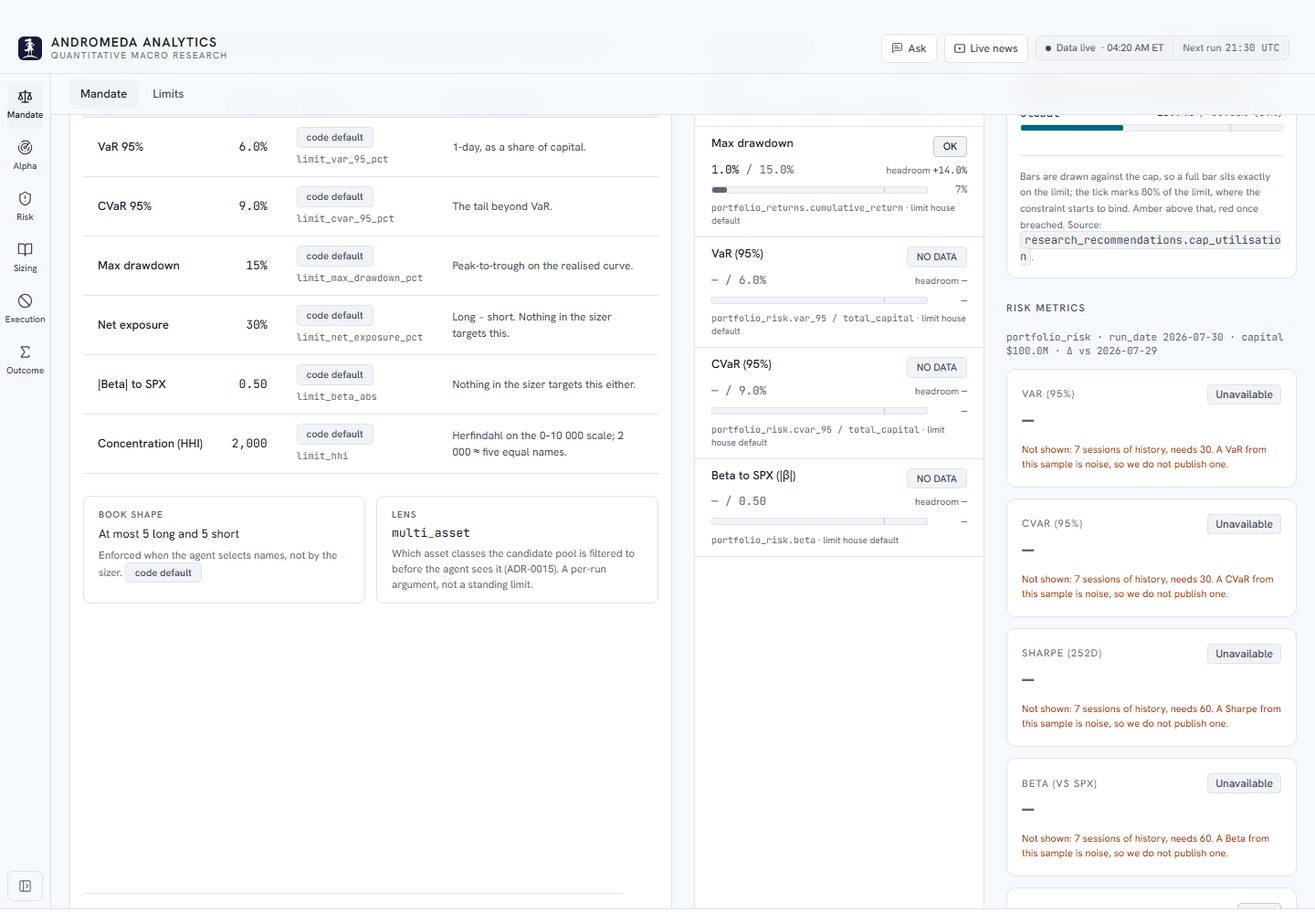
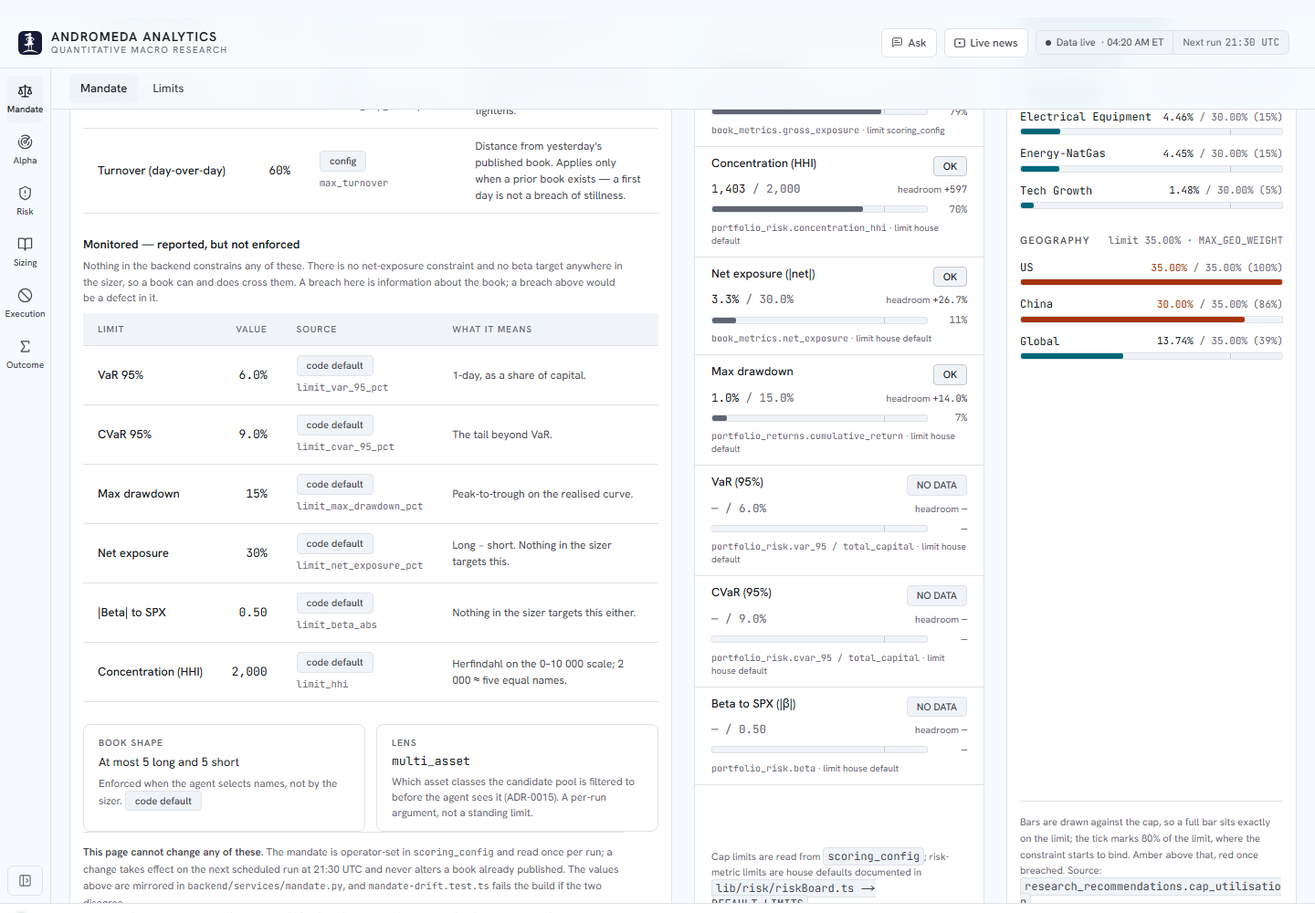
refactor(ui): the risk-metric tiles move from /mandate to /attribution
Four of the five were already on the mandate page, stated better. VaR, CVaR,
beta and HHI are the same portfolio_risk columns the limit board reports two
cards away AGAINST THEIR LIMIT AND HEADROOM — and three of them were stating
the same absence twice, in two different wordings. Only Sharpe was unique, and
it has no mandate limit at all: it is a realised risk-adjusted return.

They were never chosen for that page. Before the phase split /risk was one page
and RiskMetricsGrid sat inside <section id="limits">; ADR-0170 mapped limits →
mandate and the grid travelled with it.

/risk was rejected as a destination on its own lede — "every figure here is
EX-ANTE" — since all five are computed off the realised return series. They
land at the top of /attribution's realised section, directly beneath the answer
card that explains why they are withheld.

Follow-ons: RiskMetricsGrid drops the xl:grid-cols-1 step added for the 318px
column that no longer exists, and CapUtilisation takes open:h-full back to hold
the mandate row's bottom edge alone.

Measured at 1440: /mandate's three cards 474 → 2062px, one top and one bottom
edge, page 2483 → 2166px. /attribution's strip is five across at 259px. 975
frontend tests green, tsc clean.

ADR-0182.

diff --git a/frontend/components/risk/RiskBody.tsx b/frontend/components/risk/RiskBody.tsx
@@ -124,7 +124,8 @@ const PHASE_COPY: Record<RiskPhase, { title: string; lede: string }> = {
   attribution: {
     title: "Attribution & Feedback",
     lede:
-      "What the book actually did — realised drawdown and the return path, " +
+      "What the book actually did — the five headline risk statistics, the " +
+      "forward record of published picks, realised drawdown and the return path, " +
       "against the ex-ante figures the phases above produced. This is the only " +
       "surface here that is backward-looking.",
   },
@@ -888,35 +889,19 @@ function RiskPageInner({ phase }: { phase: RiskPhase }) {
           />
         </section>
 
-        {/* The last column is a STACK, not a card: cap headroom, then the five
-            risk-metric tiles one below another (owner's direction). Both are
-            readings of the same book against the same mandate, and at 316px the
-            tiles' own `md:grid-cols-5` would have given each one 52px, so the
-            column is the only place they can go five-deep instead of five-across.
+        {/* Cap headroom, moved from the risk page (ADR-0172). "Am I inside my limits"
+            is the MANDATE's question, and the board beside it states the limits this
+            measures against — separating a constraint from the reading of that
+            constraint is what made the caps unreadable before MandatePanel existed.
 
-            This column is also what the other two align to — it is the tallest of
-            the three, so `h-full` on the mandate and the board stretches them to
-            its bottom edge. The caps card deliberately carries no `h-full`: it
-            shares this column rather than owning it. */}
-        <div className="flex flex-col gap-6">
-          {/* Cap headroom, moved from the risk page (ADR-0172). "Am I inside my limits"
-              is the MANDATE's question, and the board beside it states the limits this
-              measures against — separating a constraint from the reading of that
-              constraint is what made the caps unreadable before MandatePanel existed. */}
+            It briefly shared this column with the five risk-metric tiles, which
+            have since moved to /attribution — four of the five were the same
+            portfolio_risk figures the board already reports AGAINST THEIR LIMIT,
+            two cards apart, and three of those were stating the same ABSENCE
+            twice in two wordings (ADR-0182). Alone in the column again, the card
+            takes `open:h-full` back so the row keeps one bottom edge. */}
+        <div>
           <CapUtilisation state={capState} />
-
-          {/* 2 — Risk metrics (always rendered) + prior-run deltas. */}
-          <section aria-label="Headline risk metrics">
-            <RiskMetricsGrid
-              loading={data.loading}
-              risk={data.risk}
-              failure={data.riskFailure}
-              orderingNote={data.riskOrderingNote}
-              deltas={riskDeltas}
-              prevRunDate={prevRunDate}
-              sessions={data.returns.length}
-            />
-          </section>
         </div>
         </>
         )}
@@ -956,9 +941,10 @@ function RiskPageInner({ phase }: { phase: RiskPhase }) {
       )}
 
       {/* VaR by method — moved off /mandate (ADR-0172). The mandate LISTS a VaR
-          limit and the metric grid beside it reports the one published figure; the
+          limit and its board reports the one published figure against it; the
           four-way comparison is a risk analysis, not a limits check, and belongs on
-          the page whose question is what could go wrong. Its own section, because
+          the page whose question is what could go wrong. (The metric grid that used
+          to report that figure beside the board is on /attribution now — ADR-0182.) Its own section, because
           five instruments in `stress` would bury the scenario matrix again — which
           is the defect this whole reorganisation exists to fix. */}
       {/* No `id` on the wrapper below: `VarMethods` already renders
@@ -1068,6 +1054,32 @@ function RiskPageInner({ phase }: { phase: RiskPhase }) {
           against the other was previously a scroll. */}
       {shows("realised") && (
       <section id="realised" aria-label="Realised performance">
+      {/* The five headline risk statistics, moved off /mandate (ADR-0182). Four of
+          them — VaR, CVaR, beta, HHI — are the same portfolio_risk figures the
+          limit board reports there AGAINST THEIR LIMIT, which on a page asking
+          "is the book inside its mandate" is the strictly better form; three were
+          stating the same ABSENCE twice, two cards apart, in two wordings. The
+          fifth, Sharpe, has no mandate limit at all.
+
+          They land HERE and not on /risk because every one of them is computed
+          from the realised return series, and /risk's own lede promises that
+          every figure on it is ex-ante — a pure function of the recommended
+          weights and a covariance estimate. Putting these there would have made
+          that sentence false. The Δ-vs-yesterday chips are the same claim this
+          phase is for.
+
+          First in the section, because they are the headline: a compact
+          five-across strip above the record and the curves that explain it. */}
+      <RiskMetricsGrid
+        loading={data.loading}
+        risk={data.risk}
+        failure={data.riskFailure}
+        orderingNote={data.riskOrderingNote}
+        deltas={riskDeltas}
+        prevRunDate={prevRunDate}
+        sessions={data.returns.length}
+      />
+
       {/* The forward record, moved here from /method/evidence (ADR-0172). Phase 6
           IS "was the thesis right", and this is the only instrument that answers it
           about books we actually published. Fed the rows this page already read, so

diff --git a/frontend/components/risk/CapUtilisation.tsx b/frontend/components/risk/CapUtilisation.tsx
@@ -210,12 +210,24 @@ export function CapUtilisation({
     // new one being added. The disclosure itself is kept: a reader who wants the
     // limit board beside it without 19 bars can still close it.
     //
-    // It carries NO `h-full`, unlike the other two cards in that row (ADR-0181):
-    // it does not own its column, it shares it with the five risk-metric tiles
-    // stacked beneath it. The COLUMN is what aligns to the row's height; this
-    // card is content-height at the top of it, and a stretched card here would
-    // push the tiles out of the row entirely.
-    <details open className="card mb-6 group" aria-labelledby="risk-caps-heading">
+    // `open:h-full`, not `h-full`: the mandate row aligns its three cards top AND
+    // bottom (ADR-0181), and this card owns its column again now the risk-metric
+    // tiles have left it (ADR-0182). Gated on `[open]` because a COLLAPSED card
+    // stretched to the row height is a 1600px empty bordered box — the disclosure
+    // would still work and would still look broken.
+    //
+    // The `[&::details-content]` half is not decoration. Chrome wraps a
+    // <details>'s non-summary content in a UA `::details-content` box, so
+    // `flex-col` on the element makes THAT box the flex item and the card body
+    // inside it is not one — measured: the body stopped at 1068px inside a 1546px
+    // slot, and the closing note floated with 400px of blank beneath it. Both
+    // paths are kept: Firefox and Safari have no such box and flex the children
+    // directly, where the rule is simply ignored.
+    <details
+      open
+      className="card mb-6 group open:h-full open:flex open:flex-col open:[&::details-content]:h-full open:[&::details-content]:flex open:[&::details-content]:flex-col"
+      aria-labelledby="risk-caps-heading"
+    >
       <summary className="card-header cursor-pointer select-none list-none [&::-webkit-details-marker]:hidden">
         <h2 id="risk-caps-heading" className="card-title m-0">
           Cap utilisation
@@ -239,7 +251,7 @@ export function CapUtilisation({
           <SectionGap copy={gap} tone={state.status === "query_error" ? "error" : "empty"} />
         ) : null
       ) : (
-        <div className="card-body">
+        <div className="card-body flex-1 flex flex-col">
           {breaches.length > 0 && (
             <div
               className="mb-5 pl-4 border-l-2 py-1"
@@ -259,14 +271,20 @@ export function CapUtilisation({
             </div>
           )}
 
-          {GROUPS.map((group) => (
-            <CapGroupBlock
-              key={group.id}
-              group={group}
-              rows={data[group.id]}
-              limit={data.limits?.[group.id]}
-            />
-          ))}
+          {/* flex-1 on the GROUPS, not `mt-auto` on the note below them: this is
+              what absorbs the slack when the card is stretched to the mandate
+              row's height, and it leaves the note's own `mt-4` intact for every
+              layout where there is no slack to absorb. */}
+          <div className="flex-1">
+            {GROUPS.map((group) => (
+              <CapGroupBlock
+                key={group.id}
+                group={group}
+                rows={data[group.id]}
+                limit={data.limits?.[group.id]}
+              />
+            ))}
+          </div>
 
           <p className="m-0 mt-4 pt-3.5 border-t border-border text-[11px] text-text-tertiary leading-[1.6] max-w-[90ch]">
             Bars are drawn against the cap, so a full bar sits exactly on the limit;

diff --git a/frontend/components/risk/RiskMetricsGrid.tsx b/frontend/components/risk/RiskMetricsGrid.tsx
@@ -350,18 +350,15 @@ export function RiskMetricsGrid({
     };
   };
 
-  // Two up on a phone, five ACROSS from `md`, and one per line again at `xl`.
-  // The last step is the layout, not a preference: from `xl` these five sit under
-  // the cap-utilisation card in the mandate row's last column (ADR-0181), 318px
-  // wide, where `grid-cols-5` would give each tile 52px. Same DOM at every width,
-  // so no figure on this page is rendered twice.
-  //
-  // No `mb-6` on the section either: its spacing is the parent stack's `gap-6` at
-  // every width, and a margin as well would double it.
-  const gridCls = "grid grid-cols-2 md:grid-cols-5 xl:grid-cols-1 gap-3";
+  // Two up on a phone, five across from `md`. The `xl:grid-cols-1` step that
+  // briefly lived here was for the 318px column these tiles occupied on /mandate;
+  // they moved to /attribution (ADR-0182), which is a full-width surface, so the
+  // narrow case no longer exists and the class that served it is gone rather than
+  // kept "in case".
+  const gridCls = "grid grid-cols-2 md:grid-cols-5 gap-3";
 
   return (
-    <section aria-labelledby="risk-metrics-heading">
+    <section className="mb-6" aria-labelledby="risk-metrics-heading">
       <div className="flex items-baseline justify-between gap-4 mb-3 flex-wrap">
         <h2 id="risk-metrics-heading" className="card-title m-0">
           Risk metrics

diff --git a/docs/adrs/README.md b/docs/adrs/README.md
@@ -199,6 +199,8 @@ One ADR per file. Immutable once accepted — superseded ADRs are marked `supers
 
 | [0181](0181-three-columns-one-baseline.md) | Three columns, one baseline -- two more directions on the `/mandate` row (ADR-0179/0180), taken together because the second changes what the first has to mean. (1) "The mandate", "Risk-limit board" and "Cap utilisation" should align top AND bottom -- they measured 1604/1531/1131px from a shared top edge, three different bottom edges on one row. (2) The five risk-metric tiles go UNDER the cap-utilisation card, one below another -- they had been left full width beneath the row on the reasoning that `md:grid-cols-5` across four 316px columns would wrap to one tile per line, which stacked deliberately in one column is the layout rather than an objection to it. The second settles what "bottom aligned" can mean: if the last column holds a card AND five tiles, the caps CARD is not what aligns, the COLUMN is -- a card stretched to the row height there would push the tiles out of the row entirely. Decision: `items-start` comes off the row (the one paired grid on this page that does not use it) so cells stretch to the tallest; **each card carries its own `h-full`**, because a stretched WRAPPER with a content-height card inside aligns nothing -- which is exactly what the first attempt produced; `MandatePanel` and `RiskLimitBoard` are `h-full flex flex-col` with their closing note at `mt-auto`, so slack opens ABOVE the footer and each card's closing line sits on the row's bottom edge; `CapUtilisation` carries NO `h-full` (it shares its column rather than owning it -- content-height at the top, five tiles beneath, the column's height is what meets the other two); and `RiskMetricsGrid` becomes `grid-cols-2 md:grid-cols-5 xl:grid-cols-1` -- two up on a phone, five across from `md`, one per line from `xl` where the mandate row exists, same DOM at every width so no figure is rendered twice, with its `mb-6` dropped since spacing is now the parent stack's `gap-6`. Measured at 1440 on the 2026-07-30 run: mandate and board both **474 -> 2379px**, last column 474 -> 1604 (caps) -> 2379 (fifth tile) -- one baseline, three columns; tiles 318px stacked, 182px five-across at 1024, 173px two-across at 390; no overflow on any card or the document, no console errors; 975 frontend tests green, `tsc` clean. Costs: the row got TALLER (1905 vs 1604) because the tallest column now holds two things, though the page is still 2483px against the 3026 ADR-0179 inherited; two cards now carry real slack inside them (~300px in the mandate, ~370px in the board) which pinned footers make read as a deliberate bottom rule rather than a ragged edge, but it is the price of one baseline; `h-full` is load-bearing in three components for a layout decision made in a fourth, commented but not enforced, so a future card added to this row without it will silently not align; and a collapsed caps card is harmless only by luck of ORDERING -- it sits above the tiles, so closing it shortens the column rather than leaving a hole. Recorded because it cost an hour: **Chrome wraps a `<details>`'s non-summary content in a UA `::details-content` box**, so `flex-col` on the element makes THAT box the flex item and a `flex-1` child inside it does not grow -- measured, the card body stopped at 1068px inside a 1546px slot, while Firefox and Safari flex the children directly. Not needed in the end (the caps card no longer stretches), but the next person reaching for `flex` on a `<details>` should not have to rediscover it. Rejected: stretching the caps card and putting the tiles below the row ("under it" meant in its column; below the row is where they already were); aligning only the two full-height cards and letting the last column ragged-end (it IS the tallest column -- the other two align to it); `items-stretch` with no per-card `h-full` (measured as the first attempt: the cells stretched, the cards did not, nothing changed visually) | accepted | 2026-07-30 |
 
+| [0182](0182-four-of-five-were-already-on-the-page.md) | Four of the five were already on the page -- the owner asked why the risk-metric tiles were on `/mandate` at all. They were never chosen for it: before the phase split `/risk` was one page and `RiskMetricsGrid` sat inside `<section id="limits">`, ADR-0170 cut that page by reader question and mapped `limits` -> mandate, so the grid travelled with the section it happened to live in; ADR-0181 moving it into the row's last column made the question visible rather than creating it. Read off the LIVE page at 1440 on the 2026-07-30 run: VaR `NO DATA - / 6.0%` on the board vs `Unavailable -` on the tile; CVaR `NO DATA - / 9.0%` vs `Unavailable -`; Beta `NO DATA - / 0.50` vs `Unavailable -`; HHI `1,403 / 2,000, headroom +597, OK` vs `1403 up +5, Exact`; Sharpe -- no mandate limit exists -- vs `Unavailable`. Four of five are the same `portfolio_risk` columns the board already reports AGAINST THEIR LIMIT AND HEADROOM, which on a page asking "is the book inside its mandate" is strictly the more useful form, and three of those four were stating the same ABSENCE twice, two cards apart, in two different wordings; the fifth, Sharpe, is a realised risk-adjusted return with no mandate limit at all -- phase 6's question, not phase 1's. Decision: the grid moves to `/attribution`, at the top of the `realised` section. `/risk` was rejected as a destination ON ITS OWN COPY -- its lede promises "every figure here is EX-ANTE, a pure function of the recommended weights and a 252-day covariance estimate", and all five are computed off the realised return series, so landing them there would have made that sentence false. `/attribution` is the backward-looking surface, the delta-vs-yesterday chips are exactly its claim, and the phase already opens with an answer card ("7 sessions -- 11 statistics are still withheld for want of history; var_95 unlocks at 30") that is about these tiles specifically, so they now sit directly beneath the card explaining their own absence. NO change to `RISK_SECTION_PHASE`: the grid moved INTO an existing section rather than becoming one, so the nav-section parity the split is tested on is untouched; the attribution lede gains a clause naming what the phase opens with. Two follow-ons the move forced: `RiskMetricsGrid` DROPS the `xl:grid-cols-1` step ADR-0181 added (it existed for a 318px column that no longer exists, and a class kept "in case" is a class nobody can delete later) with `mb-6` returning now that no parent stack owns its spacing; and `CapUtilisation` takes `open:h-full` BACK, owning the last column again so it is what meets the other two cards' bottom edge -- including the `[&::details-content]` rule ADR-0181 recorded but did not need, which is now what pins its closing note to the baseline. Measured at 1440: `/mandate`'s three cards run **474 -> 2062px**, one top and one bottom edge, page 2483 -> **2166px**; on `/attribution` the strip renders five across at 259px per tile, 175px tall, above the track record; collapsing the caps card still returns it to 58px; no overflow, no console errors, 975 frontend tests green, `tsc` clean. Costs: `/attribution` inherits duplication it does not have yet (`beta` also appears in `BenchmarkComparison` further down that page, VaR/CVaR in `VarMethods` on `/risk`) -- this removes one duplication and does not audit the rest; the provenance rendering MOVED rather than spread, so these tiles remain the only place `numeric_derivations` (method id, freshness, uncertainty band) reaches a reader for these five figures while the limit board reports the same numbers with only a source line, an asymmetry left standing; `/mandate` lost its only Sharpe, intended (a mandate is not a performance statement) but a figure a reader of that page could previously see; and the last column is a single disclosure again, stretched to 1588px against ~1131px of content. Rejected: leaving it (the duplication is on one screen and includes the same absence stated twice); retiring the grid entirely and rehoming only Sharpe (cheapest, and it would have deleted the only surface rendering derivation provenance for these five); moving it to `/risk` (contradicted by that page's own lede, which is a promise about every figure on it) | accepted | 2026-07-30 |
+
 ## When to write an ADR
 
 - Any architectural choice you'd struggle to explain six months from now

diff --git a/PROGRESS.md b/PROGRESS.md
@@ -34,6 +34,7 @@ docs/
 
 | Date | Entry |
 |---|---|
+| 2026-07-30 | **The risk-metric tiles left /mandate for /attribution -- four of the five were already on the mandate page, stated better.** [ADR-0182](docs/adrs/0182-four-of-five-were-already-on-the-page.md). The owner asked why they were there; the answer is that nobody put them there -- `RiskMetricsGrid` sat inside `<section id="limits">` before the phase split, and `limits` went to mandate. Read off the live page: VaR, CVaR, beta and HHI are the same `portfolio_risk` columns the limit board reports AGAINST THEIR LIMIT two cards away, and three of them were stating the same absence twice in two wordings; only Sharpe was unique, and it has no mandate limit. `/risk` was rejected on its own lede ("every figure here is EX-ANTE") since all five are computed off the realised return series, so they land at the top of `/attribution`'s realised section -- directly under the answer card that explains why they are withheld. No `RISK_SECTION_PHASE` change (moved into an existing section). Follow-ons: the `xl:grid-cols-1` step added for the 318px column is deleted rather than kept, and `CapUtilisation` takes `open:h-full` back to hold the mandate row's bottom edge alone. Measured at 1440: /mandate's three cards 474->2062px, page 2483->2166px; 975 tests green. |
 | 2026-07-30 | **/mandate's three columns now share one bottom edge, and the five risk-metric tiles moved into the last one, stacked under cap utilisation.** [ADR-0181](docs/adrs/0181-three-columns-one-baseline.md). Owner's direction, two parts, where the second settles what the first can mean: with a card AND five tiles in the last column, the COLUMN aligns, not the caps card. `items-start` comes off the row; each card carries its own `h-full` (a stretched wrapper with a content-height card inside aligns nothing -- the first attempt's actual result); `MandatePanel` and `RiskLimitBoard` pin their closing note at `mt-auto` so the slack opens above the footer; `CapUtilisation` deliberately has no `h-full` since it shares its column; `RiskMetricsGrid` is now `grid-cols-2 md:grid-cols-5 xl:grid-cols-1`, one DOM at every width. Measured at 1440: mandate and board both 474->2379px, last column 474->1604 (caps) ->2379 (fifth tile); 975 tests green. Also recorded there: Chrome wraps `<details>` content in a UA `::details-content` box, so `flex-col` on the element does not make an inner child a flex item. |
 | 2026-07-30 | **Cap utilisation opens by default, and the limit board got 32% shorter by moving its prose to the card that already carries it.** [ADR-0180](docs/adrs/0180-the-note-is-beside-the-board-the-source-is-not.md). Two same-day follow-ups to ADR-0179's mandate row. `CapUtilisation` is now `<details open>` -- as one of four cards in one row it was spending a quarter column on a 58px summary bar. The board's height was measured, not guessed: ~178px per row, of which ~55px was pure padding/margin and 33-66px was the prose `note` -- content `MandatePanel` renders 24px to the left for every one of these limits. So `LimitDef` gains `source` (the `table.column` the VALUE is read from, split out of the prose and rendered under every row beside where the LIMIT came from), the prose moves to the row's `title` with the intro linking to `#mandate`, `value / limit` and the headroom go on one line, and the spacing tightened. Measured at 1440: board 2250->1531px, caps 58->1131px open, page 3026->2381px -- 645px shorter despite a card opening. Known cost: the board no longer explains itself in isolation, and `title` is hover-only, so the traceability path is the source line that renders, not the tooltip. |
 | 2026-07-30 | **`/mandate` opens as one row -- the mandate at half width, the limit board and cap headroom at a quarter each -- which cost the limit board its table.** [ADR-0179](docs/adrs/0179-a-quarter-column-cannot-hold-an-820px-table.md). Owner's layout direction. A quarter of the 1336px canvas is 316px (~280 inside a card), and `RiskLimitBoard` was a six-column table pinned at `min-w-[820px]` -- a 3x horizontal scroller in that window -- while `CapUtilisation`'s three-column bar row overflowed ~70px into a card that clips. `RiskBody` now renders mandate+limits as one `xl:grid-cols-4` row (`MandatePanel` `col-span-2`, board and caps one each) with `RiskMetricsGrid` full width beneath it; the board is a stacked list carrying every column the table had, with Value/Limit/Headroom as a labelled three-up `<dl>` because a list has no `<thead>` and a bare figure under no heading is a naked number; the cap bars drop back to their two-column form at `xl`. One rendering at every width, not two markups -- duplicating the card's figures in the DOM is how they come to disagree. Below `xl` the page is unchanged. Verified live at 1440: 660/318/318px on one row, no overflow on any card or the document, no console errors; fallbacks checked at 1280/1024/390; `tsc` clean and the risk/mandate suites green. Known cost: `#mandate` and `#limits` now start at the same y, so `SectionNav`'s "Limits" tab rarely wins the active highlight (the anchors still work). |

diff --git a/docs/adrs/0182-four-of-five-were-already-on-the-page.md b/docs/adrs/0182-four-of-five-were-already-on-the-page.md
@@ -1,0 +1,100 @@
+---
+status: accepted
+date: 2026-07-30
+deciders: platform owner
+---
+
+# ADR-0182 — Four of the five were already on the page
+
+## Context
+
+The owner asked why the risk-metric tiles were on `/mandate` at all.
+
+They were never chosen for it. Before the phase split, `/risk` was one page and
+`RiskMetricsGrid` sat inside `<section id="limits">`. ADR-0170 cut that page by
+reader question and mapped `limits` → mandate, so the grid travelled with the
+section it happened to live in. ADR-0181 then moved it into the row's last
+column, which made the question visible rather than creating it.
+
+Read off the live page at 1440 on the 2026-07-30 run:
+
+| Figure | Risk-limit board, same page | Metric tile, same page |
+|---|---|---|
+| VaR (95%) | `NO DATA — / 6.0%` | `Unavailable —` |
+| CVaR (95%) | `NO DATA — / 9.0%` | `Unavailable —` |
+| Beta to SPX | `NO DATA — / 0.50` | `Unavailable —` |
+| Concentration (HHI) | `1,403 / 2,000, headroom +597, OK` | `1403 ▲ +5, Exact` |
+| Sharpe (252d) | — no mandate limit exists | `Unavailable` |
+
+Four of the five are the same `portfolio_risk` columns the board already reports
+**against their limit and headroom** — which on a page whose question is "is the
+book inside its mandate" is strictly the more useful form. Three of those four
+were stating the same *absence* twice, two cards apart, in two different
+wordings. The fifth, Sharpe, is a realised risk-adjusted return with no mandate
+limit at all: phase 6's question, not phase 1's.
+
+## Decision
+
+**The grid moves to `/attribution`, at the top of the `realised` section.**
+
+`/risk` was rejected as a destination on its own copy: its lede promises that
+*"every figure here is EX-ANTE — a pure function of the recommended weights and a
+252-day covariance estimate"*, and every one of these five is computed off the
+realised return series. Landing them there would have made that sentence false.
+
+`/attribution` is the backward-looking surface, the Δ-vs-yesterday chips are
+exactly its claim, and the phase already opens with an answer card — *"7 sessions
+— 11 statistics are still withheld for want of history; var_95 unlocks at 30"* —
+that is about these tiles specifically. They now sit directly beneath the card
+that explains their own absence.
+
+No change to `RISK_SECTION_PHASE`: the grid moved *into an existing section*
+rather than becoming one, so the nav ⟷ section parity the split is tested on is
+untouched. The attribution lede gains a clause naming what the phase now opens
+with.
+
+Two follow-ons the move forced:
+
+- `RiskMetricsGrid` drops the `xl:grid-cols-1` step ADR-0181 added. That existed
+  for a 318px column which no longer exists; a class kept "in case" is a class
+  nobody can delete later. Back to `grid-cols-2 md:grid-cols-5`, and `mb-6`
+  returns now that no parent stack owns its spacing.
+- `CapUtilisation` takes `open:h-full` back. It owns the last column again, so it
+  is what meets the other two cards' bottom edge — including the
+  `[&::details-content]` rule ADR-0181 recorded but did not need, which is now
+  what pins its closing note to the baseline.
+
+## Consequences
+
+Measured at 1440: `/mandate`'s three cards run **474 → 2062px**, one top and one
+bottom edge, page 2483 → **2166px**. On `/attribution` the strip renders five
+across at 259px per tile, 175px tall, above the track record. Collapsing the caps
+card still returns it to 58px. No overflow, no console errors, 975 frontend tests
+green, `tsc --noEmit` clean.
+
+Costs:
+
+- **`/attribution` inherits the duplication it does not have yet.** `beta` also
+  appears in `BenchmarkComparison` further down that page, and VaR/CVaR appear in
+  `VarMethods` on `/risk`. This change removes one duplication and does not audit
+  the rest.
+- **The provenance rendering moved, it did not spread.** These tiles are still
+  the only place `numeric_derivations` (method id, freshness, uncertainty band)
+  reaches a reader for these five figures. The limit board reports the same
+  numbers with no provenance beyond a source line — an asymmetry left standing.
+- **`/mandate` lost its only Sharpe.** Nothing there reports a risk-adjusted
+  return now. That is intended — a mandate is not a performance statement — but
+  it is a figure a reader of that page could previously see.
+- **The mandate row is one card narrower in content.** The last column is a
+  single disclosure again, stretched to 1588px, so its slack is back (the caps
+  content is ~1131px of it).
+
+Rejected:
+
+- **Leave it.** The duplication is on one screen and includes the same absence
+  stated twice.
+- **Retire the grid entirely and rehome only Sharpe.** Cheapest, and it would
+  have deleted the only surface rendering derivation provenance for these five
+  figures.
+- **Move it to `/risk`.** Contradicted by that page's own lede, which is a
+  promise about every figure on it.
